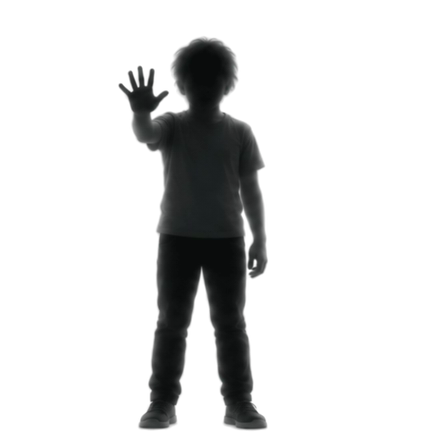
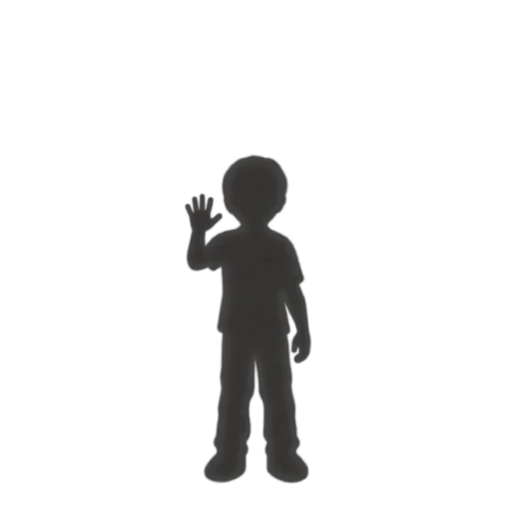
Personnages selon la vérité (homme victime, femme complice, enfant illusion), révélations sans visage, téléphone et trappe du pack V2 — version 5.7
Claude-Session: https://claude.ai/code/session_016tz2e8Qj7xzJKxA4q2yTiD

Changed region(s): [[0.2727, 0.0591, 0.6364, 1.0]]

diff --git a/src/room.js b/src/room.js
@@ -15,8 +15,8 @@
   var VT = { x: 1115, y: 70, w: 360, h: 315, k: 315 / 738 };                  // vitre (dessin 620 × 738, élargi par tranches)
   var GL = { x: 1138.5, y: 97.7, w: 308.8, h: 260.4 };                         // verre de la vitre de la 18
   var SIL = { x: GL.x + GL.w / 2 - 168, y: GL.y + 60, s: 336 };                // canevas commun des silhouettes (800 × 800)
-  // Silhouettes : une seule série pour l'instant. Passer à true quand les séries homme / femme / enfant (sil_A_, sil_B_, sil_C_) seront livrées.
-  var SIL_PAR_VERITE = false;
+  // Silhouettes par vérité (pack personnages 20/10) : A victime = homme, B complice = femme, C illusion = enfant (sil_A_, sil_B_, sil_C_).
+  var SIL_PAR_VERITE = true;
   var SC = { x: 579.1, y: 111.1, w: 490.8, h: 178.1, cx: 824.5, cy: 200.2 };  // écran du moniteur
   var KS = SC.h / 117.8;                                                         // échelle du texte du moniteur
   var VIES = [1214.2, 1264.9, 1311.3], VIES_Y = 440.8;
@@ -164,7 +164,7 @@
   I('btnImg', 'bouton', BTN.x, BTN.y, BTN.w, BTN.h) + I('btnImg2', 'bouton_enfonce', BTN.x, BTN.y, BTN.w, BTN.h, ' opacity="0"') + '</g>' +
   '<ellipse cx="837" cy="470" rx="70" ry="30" fill="url(#glowG)" opacity=".3" style="pointer-events:none"/>' +
   '<g id="phone" class="hs" data-k="phone" opacity="0"><rect x="500" y="440" width="172" height="104" fill="transparent"/><g id="phoneInner">' +
-  I('telImg', 'tel_pose', 506.2, 445.5, 161.5, 99.6) + I('telImg2', 'tel_decroche', 506.2, 445.5, 161.5, 99.6, ' opacity="0"') + '</g>' +
+  I('telImg', 'tel_pose', 479.3, 445.5, 188.4, 99.6) + I('telImg2', 'tel_decroche', 479.3, 445.5, 188.4, 99.6, ' opacity="0"') + '</g>' +
   '<circle id="ecouteLed" cx="640" cy="520" r="4.5" fill="#ff3b30" class="pulse" opacity="0"/></g>' +
   '<g class="hs" data-k="mug"><rect x="998" y="452" width="90" height="82" fill="transparent"/>' + I('', 'tasse', 1010, 468, 65.3, 58) + '</g>' +
   '</g></g>' +
@@ -258,12 +258,8 @@
   // ---------- état → dessin ----------
   function silhouette(p) {
     pose = p || pose;
-    var nom = pose === 'tel' && sujet !== 'A' ? 'debout' : pose;
-    // Toutes les poses partagent le même canevas : pas de recalage. Avec les séries par vérité, l'enfant (C) sera réduit.
-    src('silImg', silNom(nom));
-    var k = SIL_PAR_VERITE && sujet === 'C' ? 0.8 : 1, S = SIL.s * k;
-    attr('silImg', 'width', S); attr('silImg', 'height', S);
-    attr('silImg', 'x', (SIL.x + SIL.s * (1 - k) / 2).toFixed(1)); attr('silImg', 'y', (SIL.y + SIL.s * 0.95 * (1 - k)).toFixed(1));
+    // Toutes les poses et les trois séries partagent le même canevas (l'enfant y est déjà dessiné plus petit) : pas de recalage.
+    src('silImg', silNom(pose));
   }
   function poseVie(vie) { return vie >= 3 ? 'debout' : vie === 2 ? 'courbe' : 'accroupi'; }
   var vieCourante = 3;

diff --git a/index.html b/index.html
@@ -208,7 +208,7 @@ button.slot.flash{border-color:var(--green);box-shadow:0 0 0 2px rgba(62,224,143
       <button class="mbtn" id="setBtn">Réglages</button>
     </div>
     <p>Une pièce. Un bouton. Touche ce qui t'entoure. Le son est recommandé.</p>
-    <p class="ver">Version 5.6 · 19/10</p>
+    <p class="ver">Version 5.7 · 20/10</p>
   </div>
   <div class="intro panel" id="finsPanel" hidden>
     <h2>Fins découvertes</h2>
@@ -230,10 +230,10 @@ button.slot.flash{border-color:var(--green);box-shadow:0 0 0 2px rgba(62,224,143
 </div>
 <div class="ov" id="endOv" hidden><div class="end" id="endBox"></div></div>
 
-<script src="src/story.js?v=5.6"></script>
-<script src="src/engine.js?v=5.6"></script>
-<script src="src/audio.js?v=5.6"></script>
-<script src="src/room.js?v=5.6"></script>
-<script src="src/game.js?v=5.6"></script>
+<script src="src/story.js?v=5.7"></script>
+<script src="src/engine.js?v=5.7"></script>
+<script src="src/audio.js?v=5.7"></script>
+<script src="src/room.js?v=5.7"></script>
+<script src="src/game.js?v=5.7"></script>
 </body>
 </html>

diff --git a/CLAUDE.md b/CLAUDE.md
@@ -32,8 +32,8 @@ HTML/CSS/JS sans framework ni build (`index.html` suffit). Pièce en SVG vue de 
 
 ## État actuel
 
-- Version **5.6** : 20 moments (12 libres, 8 imposés), 6 ordres, appels, archives, 18 fins + Curiosité. Pack graphique v1 placé d'après le modèle d'Amine.
-- Silhouette de la 18 : une seule série pour toutes les vérités ; séries homme / femme / enfant attendues (`SIL_PAR_VERITE` dans `room.js`).
+- Version **5.7** : 20 moments (12 libres, 8 imposés), 6 ordres, appels, archives, 18 fins + Curiosité. Pack graphique v1 placé d'après le modèle d'Amine.
+- Silhouette de la 18 selon la vérité : victime = homme, complice = femme, illusion = enfant (`SIL_PAR_VERITE` dans `room.js`). Pack pièce V2 : seuls bouton (plus net), téléphone (recalé) et trappe préparée ont changé ; châssis de bureau non utilisé.
 - Rendu 5.5 : mur de fond `mur_fond.webp` reconstruit d'après le modèle (`tools/fond-mur.py`), profondeur (sol en perspective `sol()`, murs latéraux, ombres portées `ombre()`, liserés de lampe `lisere()`), carte d'ombre `ombre.webp` tirée de `keyart.webp` (`tools/carte-lumiere.py 0.2 38 0.56`), lampe lumineuse, vitre embrumée, grain `grain.webp`, sol mouillé (reflet du bureau et de la porte), tuyaux, reflets vitre et écran (classe `lit`, éteints avec la lampe).
 - Ensuite : tests avec 5 joueurs, direction artistique et son niveau Steam, page Steam, traduction anglaise.
 

diff --git a/docs/V3_DECISIONS.md b/docs/V3_DECISIONS.md
@@ -121,7 +121,7 @@ Décisions d'Amine (19/10) : la confirmation avant de manquer un ordre met le ch
 ## Pack graphique v1 (19/10, version 5.1)
 
 - Pièce recomposée d'après le nouveau modèle d'Amine (base 1672 × 941) : caméra et boîtier en haut à droite, grille en bas à droite, trappe devant le bureau, compartiment = caisson droit du bureau.
-- Silhouette de la 18 : une seule série pour A, B et C (consigne de l'artiste, choix d'Amine). Les séries homme / femme / enfant viendront plus tard : il suffira de les nommer `sil_A_*`, `sil_B_*`, `sil_C_*` et de passer `SIL_PAR_VERITE` à `true` dans `src/room.js`.
+- Silhouette de la 18 : une série par vérité, fixe (choix d'Amine, 20/10, pack personnages) : A victime = homme, B complice = femme, C illusion = enfant. Accepté : la vérité devient déductible en rejouant. Fichiers `sil_A_*`, `sil_B_*`, `sil_C_*` ; `SIL_PAR_VERITE` à `true` dans `src/room.js`. Révélations A et B remplacées par les versions sans visage.
 - Boîtier ouvert : trois leviers (CAMÉRA A, ACTIONNEUR CH.18, AUX 24 V), baissés quand le circuit est coupé.
 - `porte_ouverte.png` était tronqué dans l'archive : reconstruit depuis le PSD `Chambre17_calques.psd`.
 
